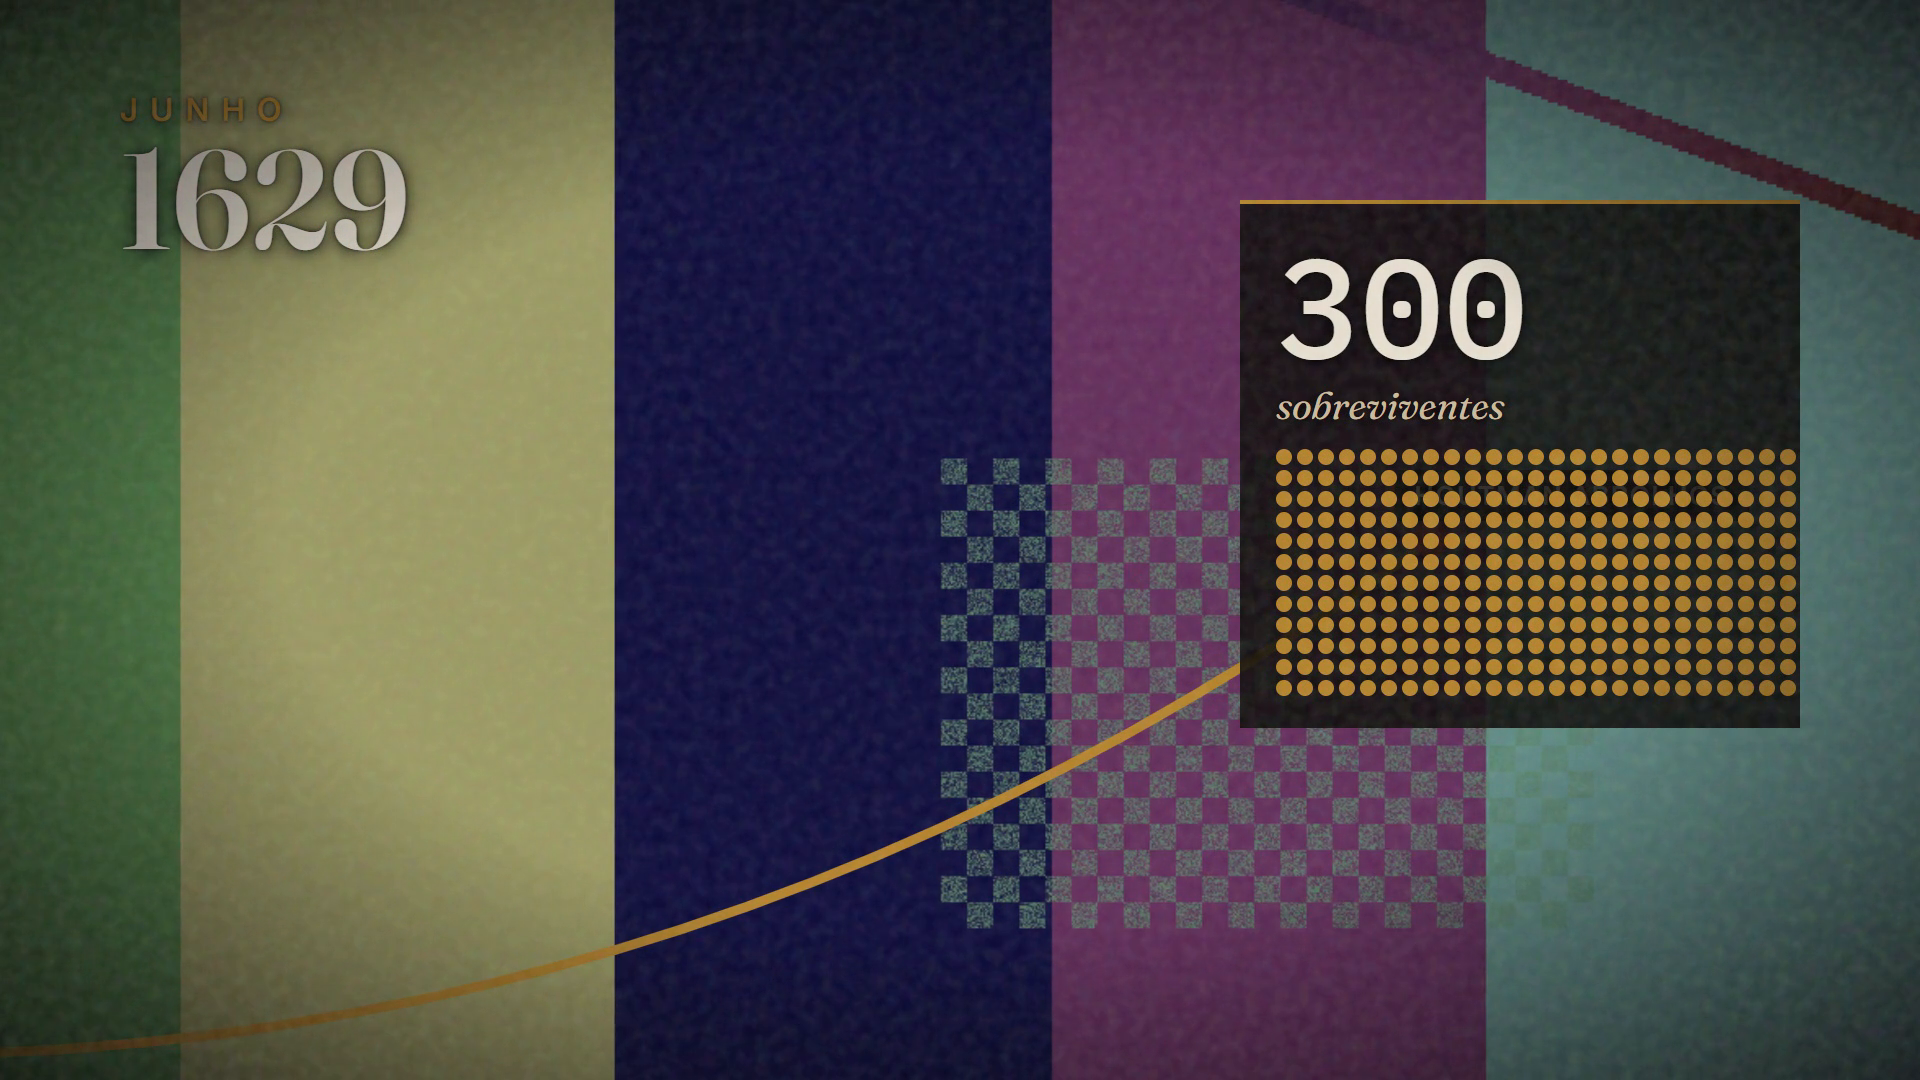
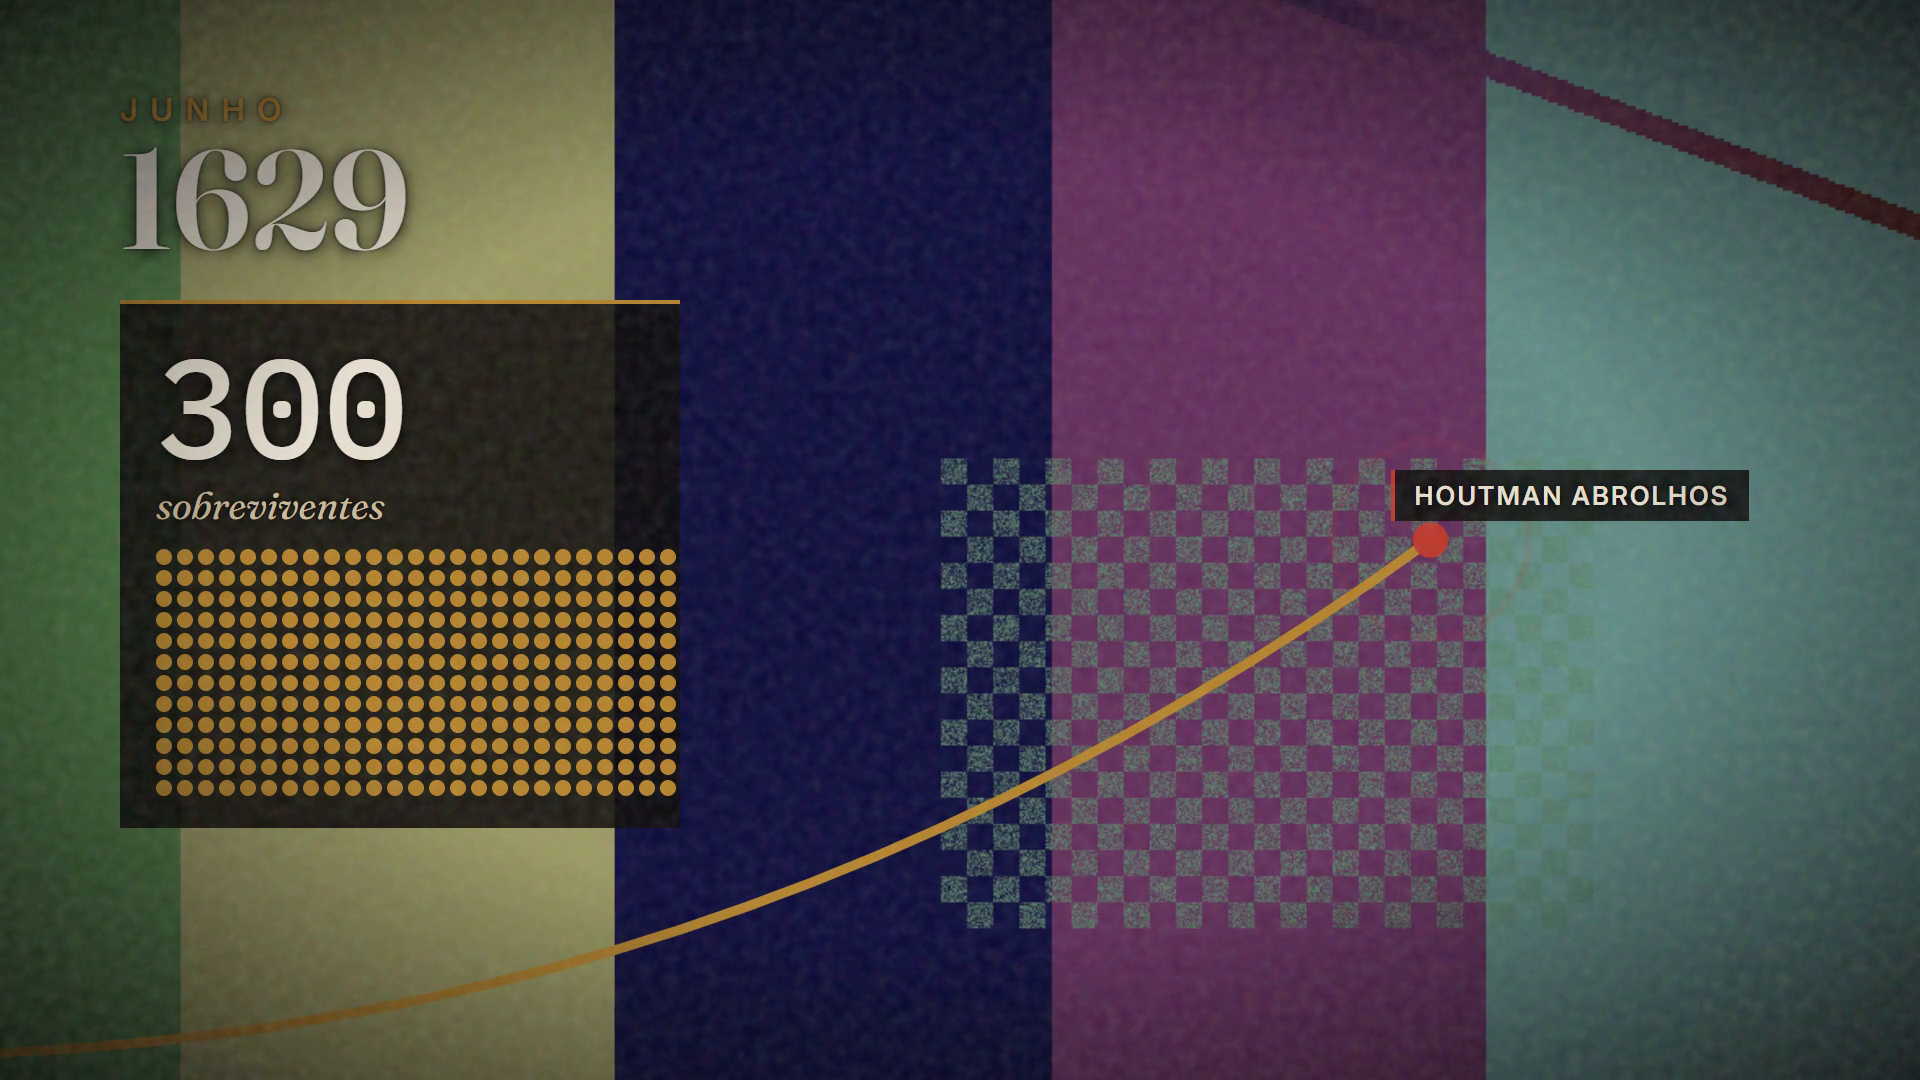
fix(doc): painel do contador vai para a esquerda quando o ponto em foco cairia sob ele

Changed region(s): [[0.625, 0.1833, 0.9375, 0.6722], [0.0625, 0.275, 0.375, 0.7639]]

diff --git a/motion/kit/doc.js b/motion/kit/doc.js
@@ -213,7 +213,12 @@
         pn.appendChild(gr);
       }
       ctx.hud.appendChild(pn);
-      IN(tl, pn, b.at - 0.12, { x: 60 });
+      // painel vai para a esquerda quando o ponto em foco cairia debaixo dele
+      const ref = ctx.beats.filter((o) => o.at <= b.at && [o.ponto, o.para, o.de].some((n) => n && ctx.pts[n])).pop();
+      const nome = ref && [ref.ponto, ref.para, ref.de].find((n) => n && ctx.pts[n]);
+      const esq = nome && ctx.tela(...ctx.pts[nome], b.at + 0.5)[0] > W / 2;
+      if (esq) Object.assign(pn.style, { left: "120px", right: "auto", top: "300px" });
+      IN(tl, pn, b.at - 0.12, { x: esq ? -60 : 60 });
       sai(ctx, pn, b, b.at + dur);
       const pre = b.prefixo || "", suf = b.sufixo || "";
       KIT.pintor((t) => {
@@ -407,10 +412,14 @@
     }
     const camera = construirCam(ini, moves, c.ini);
     const ancoras = [];   // [elemento, x, y, dx, dy]: overlay preso a um ponto do palco
+    const pose = (t) => {   // posição do palco na tela no instante t (pintor e ctx.tela usam a mesma conta)
+      const st = camAt(camera, t), sc = dims.base * st.s;
+      return { sc, tx: clamp(W / 2 - st.x * sc, W - dims.mw * sc, 0), ty: clamp(H / 2 - st.y * sc, H - dims.mh * sc, 0) };
+    };
+    const tela = (x, y, t) => { const q = pose(t); return [q.tx + x * q.sc, q.ty + y * q.sc]; };
     KIT.pintor((t) => {
       if (t < c.ini - 0.05 || t > c.ini + cena.dur + 0.05) return;
-      const st = camAt(camera, t), sc = dims.base * st.s;
-      const tx = clamp(W / 2 - st.x * sc, W - dims.mw * sc, 0), ty = clamp(H / 2 - st.y * sc, H - dims.mh * sc, 0);
+      const { tx, ty, sc } = pose(t);
       cam.style.transform = `translate(${tx.toFixed(2)}px,${ty.toFixed(2)}px) scale(${sc.toFixed(5)})`;
       for (const [e, x, y, dx, dy] of ancoras) {
         e.style.left = `${(tx + x * sc + dx).toFixed(1)}px`;
@@ -424,7 +433,7 @@
         camera.ms.push({ t, d, x, y, s: de.s * 4, de });
       },
     };
-    const ctx = { c, cena, hud, g, pts, base: dims.base, beats, fim, ancoras, palco, cam };
+    const ctx = { c, cena, hud, g, pts, base: dims.base, beats, fim, ancoras, palco, cam, tela };
     let ultimo = c.t0;
     beats.forEach((b, i) => {
       const f = BEATS[b.faz];

diff --git a/ui/test_motion.py b/ui/test_motion.py
@@ -846,3 +846,26 @@ def test_doc_vinheta_e_tela_final(tmp_path):
     assert zoom < 0.5 and tit > 0.9 and guias > 0.9 and textos == ["inscreva-se", "próximo vídeo"]
     sons = {c["som"] for c in json.loads((p / "cues.json").read_text(encoding="utf-8"))}
     assert {"carimbo", "maquina"} <= sons
+
+
+@pw
+@pytest.mark.skipif(shutil.which("ffmpeg") is None, reason="sem ffmpeg")
+def test_doc_chip_do_ponto_nao_fica_sob_o_painel(tmp_path):
+    from playwright.sync_api import sync_playwright
+    p, d = _doc(tmp_path)
+    d["cenas"][0]["beats"] = BEATS_TODOS
+    (p / "cenas.json").write_text(json.dumps(d, ensure_ascii=False), encoding="utf-8")
+    assert motion.montar(p)["ok"]
+    with sync_playwright() as pw_:
+        b = pw_.chromium.launch(args=["--allow-file-access-from-files"])
+        pg = b.new_page(viewport={"width": 1920, "height": 1080})
+        pg.goto((p / "motion" / "index.html").resolve().as_uri())
+        pg.wait_for_function("window.__kit !== undefined")
+        r = pg.evaluate("""() => { __kit.ir(2.0);
+            const q = (e) => { const r = e.getBoundingClientRect(); return [r.left, r.top, r.right, r.bottom]; };
+            const chip = [...document.querySelectorAll('#c01 .d-chip')].find((e) => e.textContent.includes('Abrolhos'));
+            return { chip: q(chip), painel: q(document.querySelector('#c01 .d-painel')) }; }""")
+        b.close()
+    c, q = r["chip"], r["painel"]
+    assert c[2] <= q[0] or c[0] >= q[2] or c[3] <= q[1] or c[1] >= q[3], r
+    assert q[0] >= 120 and q[2] <= 1800 and q[3] <= 1000, r
